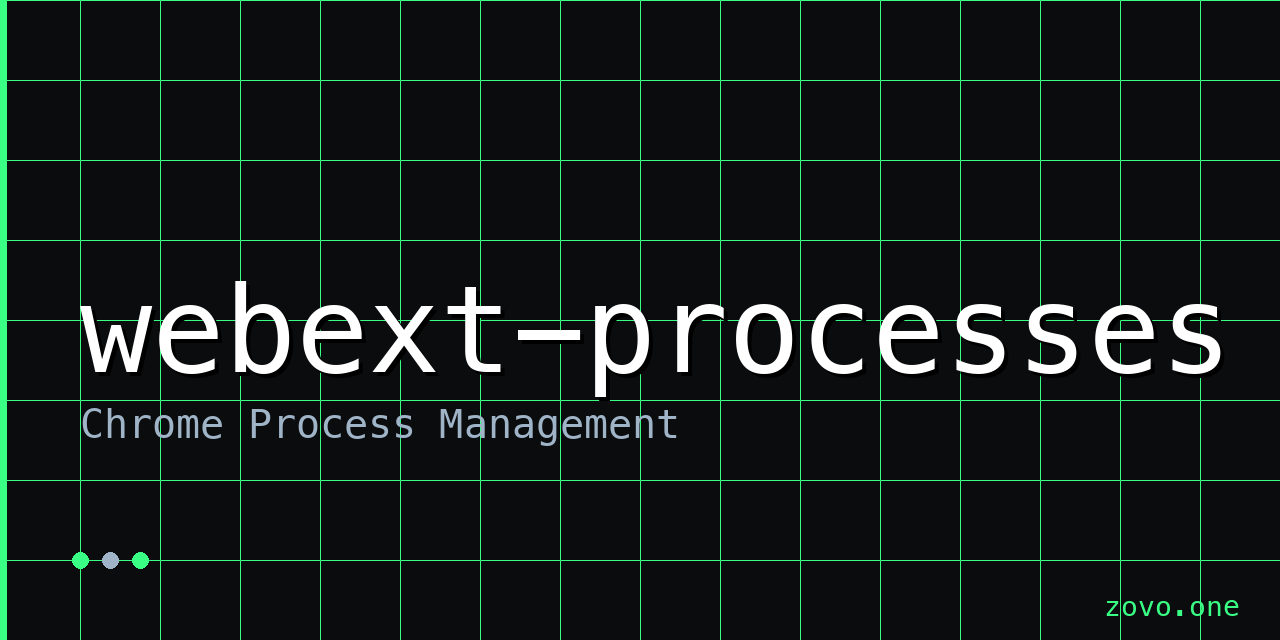
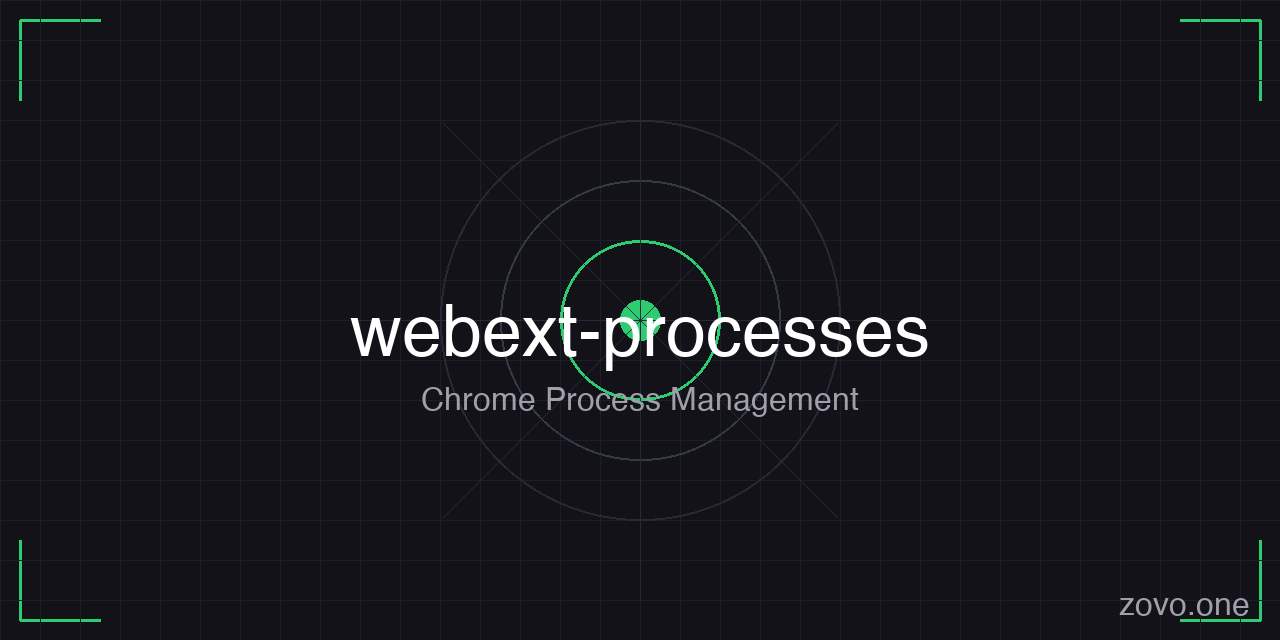
Full polish: README, CONTRIBUTING, CI, FUNDING, package.json overhaul
- Rewrote README.md with badges, features, install, examples, API table
- Added CONTRIBUTING.md with fork → branch → test → PR workflow
- Added GitHub Actions CI workflow (Node 18/20/22 matrix)
- Added FUNDING.yml with GitHub and Zovo sponsorship
- Overhauled package.json: repository, homepage, bugs, engines, exports, 8+ keywords
- Updated social preview image (1280x640 OG image)

diff --git a/README.md b/README.md
@@ -1,33 +1,37 @@
 # webext-processes
 
+<div align="center">
+
 [![npm version](https://img.shields.io/npm/v/webext-processes.svg)](https://www.npmjs.com/package/webext-processes)
-[![License: MIT](https://img.shields.io/badge/License-MIT-green.svg)](https://opensource.org/licenses/MIT)
-[![TypeScript](https://img.shields.io/badge/TypeScript-5.x-blue.svg)](https://www.typescriptlang.org/)
+[![npm license](https://img.shields.io/npm/l/webext-processes.svg)](https://opensource.org/licenses/MIT)
+[![TypeScript](https://img.shields.io/badge/TypeScript-5.3-blue.svg)](https://www.typescriptlang.org/)
+[![CI](https://github.com/theluckystrike/webext-processes/actions/workflows/ci.yml/badge.svg)](https://github.com/theluckystrike/webext-processes/actions/workflows/ci.yml)
 [![Bundle Size](https://img.shields.io/bundlephobia/min/webext-processes)](https://bundlephobia.com/package/webext-processes)
 
-Typed process management helpers for Chrome extensions — monitor memory, CPU, and manage extension processes. Part of [@zovo/webext](https://github.com/theluckystrike).
+</div>
 
-## Overview
+A TypeScript-friendly wrapper for the Chrome Processes API — monitor memory, CPU, and manage extension processes with full type safety.
 
-`webext-processes` provides a TypeScript-friendly wrapper around the Chrome Processes API, enabling you to:
+## Features
 
-- Get the renderer process ID for any tab
-- Retrieve detailed process information (CPU, memory, network usage)
-- Terminate hanging or problematic processes
-- Monitor extension performance in real-time
+- 🎯 **Full TypeScript Support** — Complete type definitions for all Chrome Process APIs
+- 🛡 **Runtime Safety** — Graceful error handling with descriptive error messages
+- 📊 **Memory Monitoring** — Track private memory, JS heap, cache sizes
+- ⚡ **CPU Usage** — Access CPU utilization data for each process
+- 🔄 **Process Management** — Terminate individual renderer processes safely
+- 🔗 **Part of @zovo/webext** — Seamless integration with the Zovo WebExtension ecosystem
 
 ## Requirements
 
-- **Chrome Extension Manifest V3**
-- **`processes`** permission in your `manifest.json`
+- **Chrome** (Dev channel or with flag enabled)
+- **Manifest V3**
+- `processes` permission in your `manifest.json`
 
 ```json
 {
   "permissions": ["processes"]
 }
 ```
-
-> **Note:** The Chrome Processes API is only available on Chrome's Dev channel and requires special access. For more details, see the [Chrome Processes API documentation](https://developer.chrome.com/docs/extensions/reference/processes/).
 
 ## Installation
 
@@ -50,7 +54,7 @@ yarn add webext-processes
 ```typescript
 import { Processes } from 'webext-processes';
 
-// Get the process ID for a specific tab
+// Get the renderer process ID for a specific tab
 const processId = await Processes.getProcessIdForTab(1);
 console.log('Process ID:', processId);
 ```
@@ -58,33 +62,19 @@ console.log('Process ID:', processId);
 ### Get Process Information
 
 ```typescript
-import { Processes, Process } from 'webext-processes';
-
-// Get detailed info for a process (including memory)
-const processId = await Processes.getProcessIdForTab(1);
-const info = await Processes.getProcessInfo(processId, true);
-
-const processInfo: Process = info[processId];
-console.log('CPU usage:', processInfo.cpu);
-console.log('Network:', processInfo.network);
-console.log('Private memory:', processInfo.privateMemory);
-console.log('JS memory allocated:', processInfo.jsMemoryAllocated);
-console.log('Process type:', processInfo.type);
-```
-
-### Get Multiple Processes
-
-```typescript
 import { Processes } from 'webext-processes';
 
-// Get info for multiple processes at once
-const tabIds = [1, 2, 3];
-const processIds = await Promise.all(
-  tabIds.map(tabId => Processes.getProcessIdForTab(tabId))
-);
+// Get info for a single process
+const info = await Processes.getProcessInfo(12345, true);
+console.log('CPU Usage:', info[12345].cpu);
+console.log('Private Memory:', info[12345].privateMemory);
+console.log('JS Heap Used:', info[12345].jsMemoryUsed);
 
-const allInfo = await Processes.getProcessInfo(processIds, true);
-console.log('All process info:', allInfo);
+// Get info for multiple processes at once
+const multiInfo = await Processes.getProcessInfo([123, 456, 789], true);
+for (const [pid, proc] of Object.entries(multiInfo)) {
+  console.log(`Process ${pid}:`, proc.type, proc.cpu);
+}
 ```
 
 ### Terminate a Process
@@ -92,43 +82,21 @@ console.log('All process info:', allInfo);
 ```typescript
 import { Processes } from 'webext-processes';
 
-// Terminate a hanging process
+// Get process ID for a tab
 const processId = await Processes.getProcessIdForTab(1);
-const terminated = await Processes.terminate(processId);
 
-if (terminated) {
+// Attempt to terminate the process
+const didTerminate = await Processes.terminate(processId);
+if (didTerminate) {
   console.log('Process terminated successfully');
 } else {
   console.log('Failed to terminate process');
 }
 ```
 
-## API
+### Process Types
 
-### `Processes.getProcessIdForTab(tabId: number): Promise<number>`
-
-Returns the ID of the renderer process for the given tab.
-
-| Parameter | Type | Description |
-|-----------|------|-------------|
-| `tabId` | `number` | The ID of the tab |
-
-**Returns:** `Promise<number>` - The process ID
-
----
-
-### `Processes.getProcessInfo(processIds: number | number[], includeMemory?: boolean): Promise<Record<number, Process>>`
-
-Returns information about the given processes.
-
-| Parameter | Type | Default | Description |
-|-----------|------|---------|-------------|
-| `processIds` | `number \| number[]` | — | Single process ID or array of IDs |
-| `includeMemory` | `boolean` | `false` | Include detailed memory information |
-
-**Returns:** `Promise<Record<number, Process>>` - Object mapping process IDs to process info
-
-#### Process Interface
+The `Process` interface provides detailed information about each process:
 
 ```typescript
 interface Process {
@@ -150,36 +118,42 @@ interface Process {
 }
 ```
 
----
+## API Reference
 
-### `Processes.terminate(processId: number): Promise<boolean>`
+| Method | Description |
+|--------|-------------|
+| `Processes.getProcessIdForTab(tabId)` | Returns the renderer process ID for a given tab |
+| `Processes.getProcessInfo(processIds, includeMemory?)` | Returns detailed info for one or more processes. Set `includeMemory` to `true` for memory metrics |
+| `Processes.terminate(processId)` | Terminates a renderer process. Returns `true` if successful |
 
-Terminates the given renderer process.
+## Error Handling
 
-| Parameter | Type | Description |
-|-----------|------|-------------|
-| `processId` | `number` | The ID of the process to terminate |
+All methods throw descriptive errors if the Chrome Processes API is unavailable or if the operation fails:
 
-**Returns:** `Promise<boolean>` - Whether the process was terminated
-
----
+```typescript
+try {
+  const info = await Processes.getProcessInfo(12345);
+} catch (error) {
+  if (error.message.includes('not available')) {
+    console.log('Chrome Processes API requires Dev channel or special flags');
+  }
+}
+```
 
 ## Part of @zovo/webext
 
-This package is part of the `@zovo/webext` collection of Chrome extension utilities:
-
-- [webext-badge](https://github.com/theluckystrike/webext-badge) — Badge management
-- [webext-clipboard](https://github.com/theluckystrike/webext-clipboard) — Clipboard operations
-- [webext-cookies](https://github.com/theluckystrike/webext-cookies) — Cookies API wrapper
-- [webext-event-bus](https://github.com/theluckystrike/webext-event-bus) — Event bus for extensions
-- [webext-tabs](https://github.com/theluckystrike/webext-tabs) — Tab management
-- [webext-notifications](https://github.com/theluckystrike/webext-notifications) — Notifications API
-- [webext-devtools](https://github.com/theluckystrike/webext-devtools) — DevTools API helpers
+`webext-processes` is part of the @zovo/webext ecosystem — a collection of TypeScript packages for building modern Chrome extensions.
 
 ## License
 
-MIT © [theluckystrike](https://github.com/theluckystrike)
+MIT License — see [LICENSE](LICENSE) for details.
 
 ---
 
-[Zovo](https://zovo.one) — Building the future of Chrome extensions
+<div align="center">
+
+Made with 🔥 by [theluckystrike](https://github.com/theluckystrike)
+
+[zovo.one](https://zovo.one)
+
+</div>

diff --git a/CONTRIBUTING.md b/CONTRIBUTING.md
@@ -2,84 +2,84 @@
 
 Thank you for your interest in contributing! This document outlines the process for contributing to this project.
 
-## Getting Started
+## Development Setup
 
-### Fork the Repository
-
-1. Click the **Fork** button on the repository page
-2. Clone your fork:
-   ```bash
-   git clone https://github.com/YOUR_USERNAME/webext-processes.git
-   cd webext-processes
-   ```
-
-### Install Dependencies
-
-This project uses pnpm for package management:
+1. **Fork the repository** on GitHub
+2. **Clone your fork** locally:
 
 ```bash
-pnpm install
+git clone https://github.com/YOUR_USERNAME/webext-processes.git
+cd webext-processes
 ```
 
-### Create a Branch
+3. **Install dependencies**:
 
-Create a new branch for your feature or bugfix:
+```bash
+npm install
+```
+
+4. **Create a feature branch**:
 
 ```bash
 git checkout -b feature/your-feature-name
-# or
-git checkout -b fix/your-bugfix-name
 ```
 
-## Development
+## Development Workflow
 
-### Running Tests
-
-Run the test suite:
+1. Make your changes in the `src/` directory
+2. Run tests to ensure everything works:
 
 ```bash
-pnpm test
+npm test
 ```
 
-### Building
-
-Build the TypeScript:
+3. Build the project:
 
 ```bash
-pnpm build
+npm run build
 ```
+
+4. Commit your changes with a descriptive message:
+
+```bash
+git commit -m "Add feature: description of your changes"
+```
+
+5. Push to your fork:
+
+```bash
+git push origin feature/your-feature-name
+```
+
+6. **Open a Pull Request** against the `main` branch of the original repository
 
 ## Pull Request Checklist
 
-Before submitting a pull request, please ensure:
+Before submitting your PR, please ensure:
 
-- [ ] Tests pass (`pnpm test`)
-- [ ] Code builds without errors (`pnpm build`)
-- [ ] New or updated tests cover your changes
-- [ ] Documentation is updated if needed
+- [ ] Tests pass (`npm test` passes)
+- [ ] Code builds without errors (`npm run build` succeeds)
+- [ ] New code is properly typed (TypeScript)
+- [ ] Documentation is updated if needed (README, comments)
 - [ ] Commit messages are clear and descriptive
-- [ ] PR title follows conventional commits format
-
-## Submitting a Pull Request
-
-1. Push your branch to your fork:
-   ```bash
-   git push origin your-branch-name
-   ```
-
-2. Open a Pull Request against the `main` branch of the original repository
-
-3. Fill out the PR template with:
-   - Clear description of changes
-   - Related issue number (if applicable)
-   - Screenshots for UI changes (if applicable)
 
 ## Code Style
 
 - Use TypeScript for all new code
-- Follow the existing code style
-- Run linting before committing
+- Follow existing code formatting
+- Add JSDoc comments for public APIs
+- Keep functions focused and small
 
-## Questions?
+## Reporting Issues
 
-If you have questions, feel free to open an issue for discussion before starting a PR.
+If you find a bug or have a feature request:
+
+1. Check if the issue already exists
+2. If not, create a new issue with:
+   - Clear description
+   - Steps to reproduce (for bugs)
+   - Expected vs actual behavior
+
+## License
+
+By contributing, you agree that your contributions will be licensed under the MIT License.
